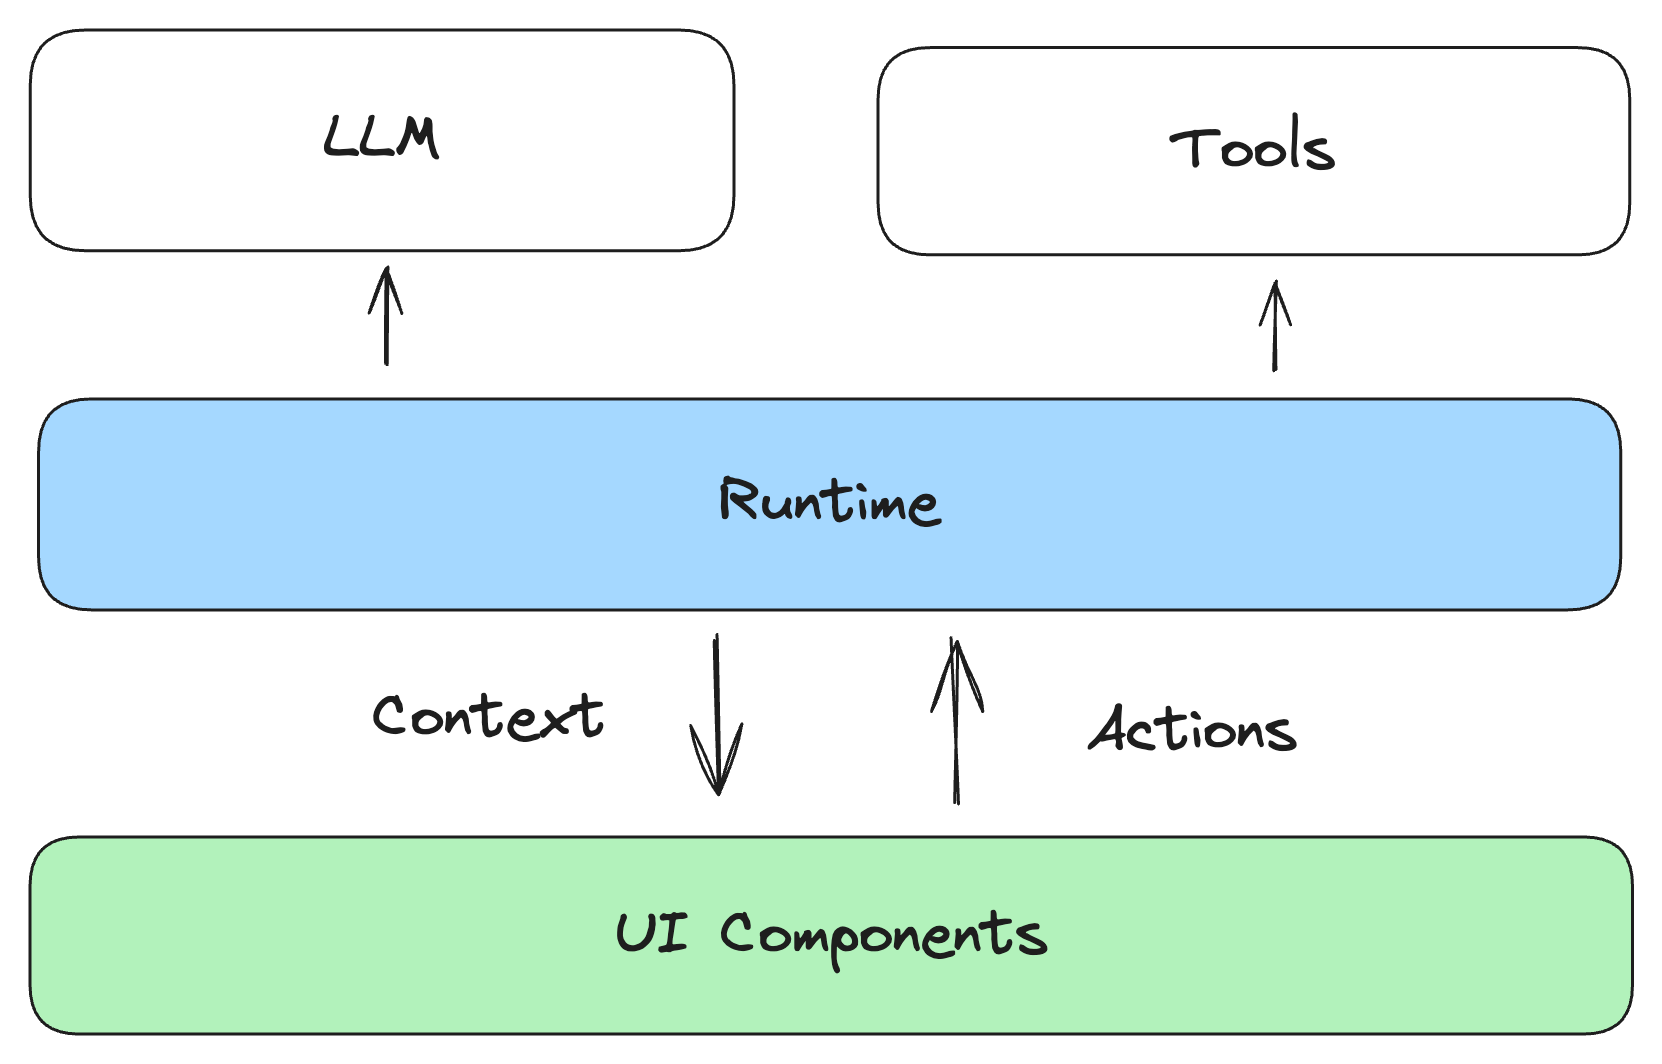
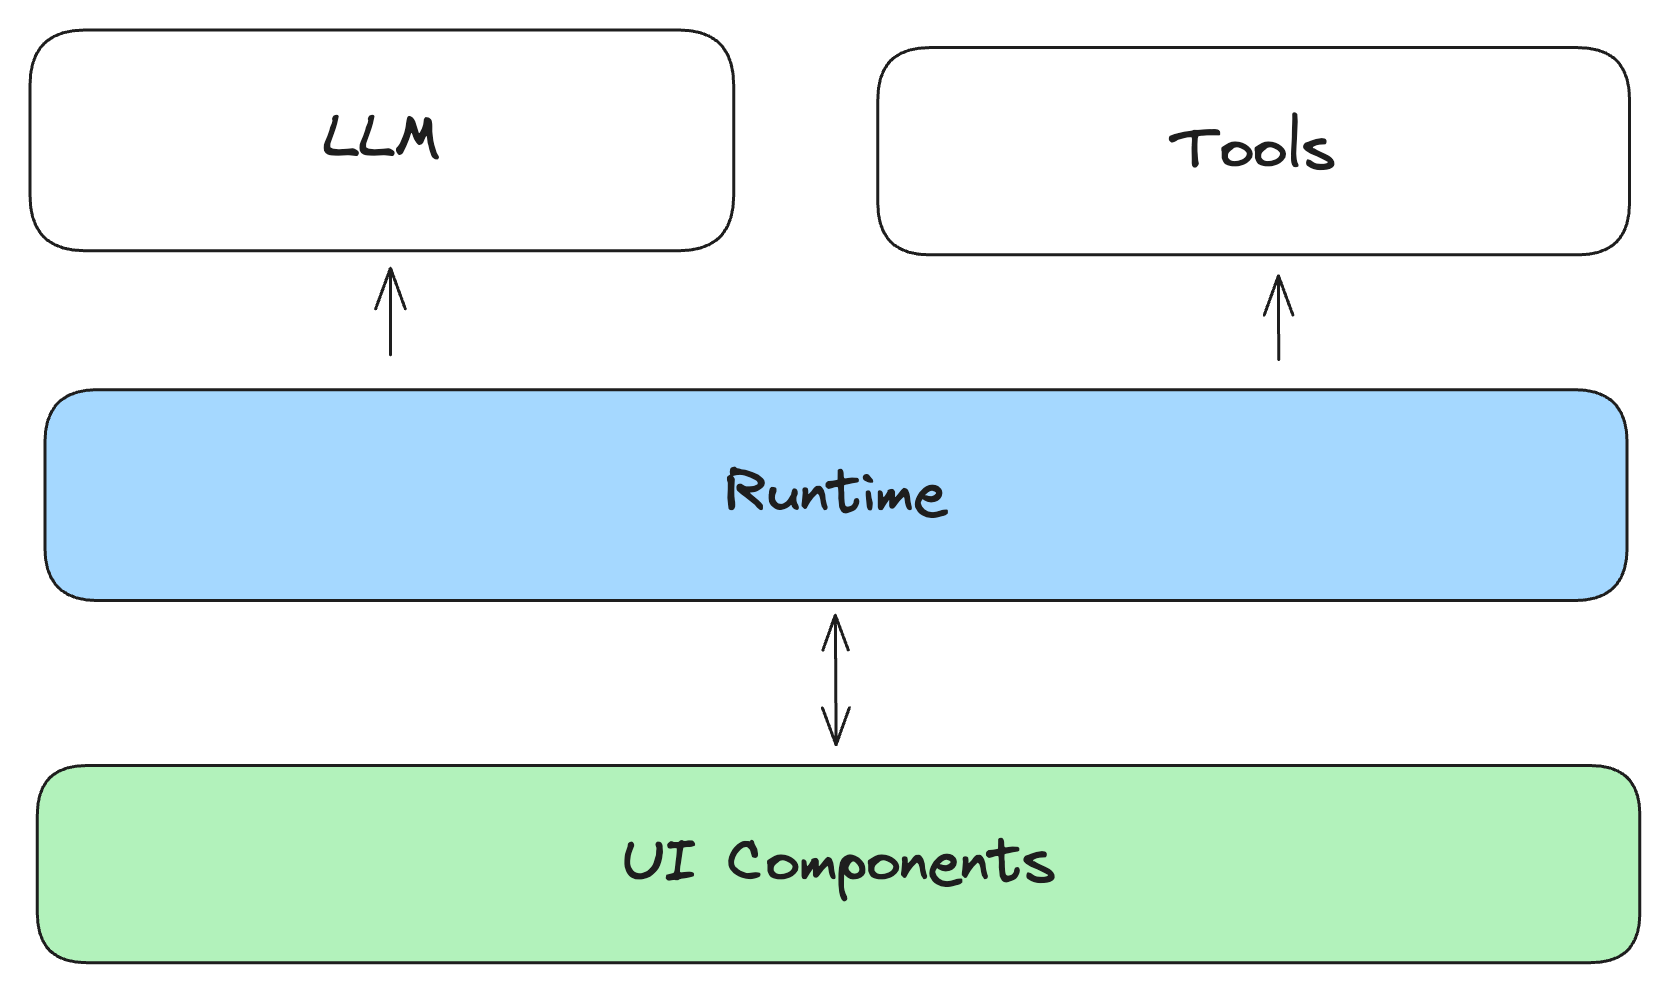
feat: change CLI assistant-modal to modal (#172)

diff --git a/packages/cli/registry/registry.ts b/packages/cli/registry/registry.ts
@@ -2,7 +2,7 @@ import type { RegistryIndex } from "./schema";
 
 export const registry: RegistryIndex = [
   {
-    name: "assistant-modal",
+    name: "modal",
     type: "components:ui",
     files: ["assistant-ui/assistant-modal.tsx"],
     registryDependencies: ["thread", "button", "popover", "tooltip"],
